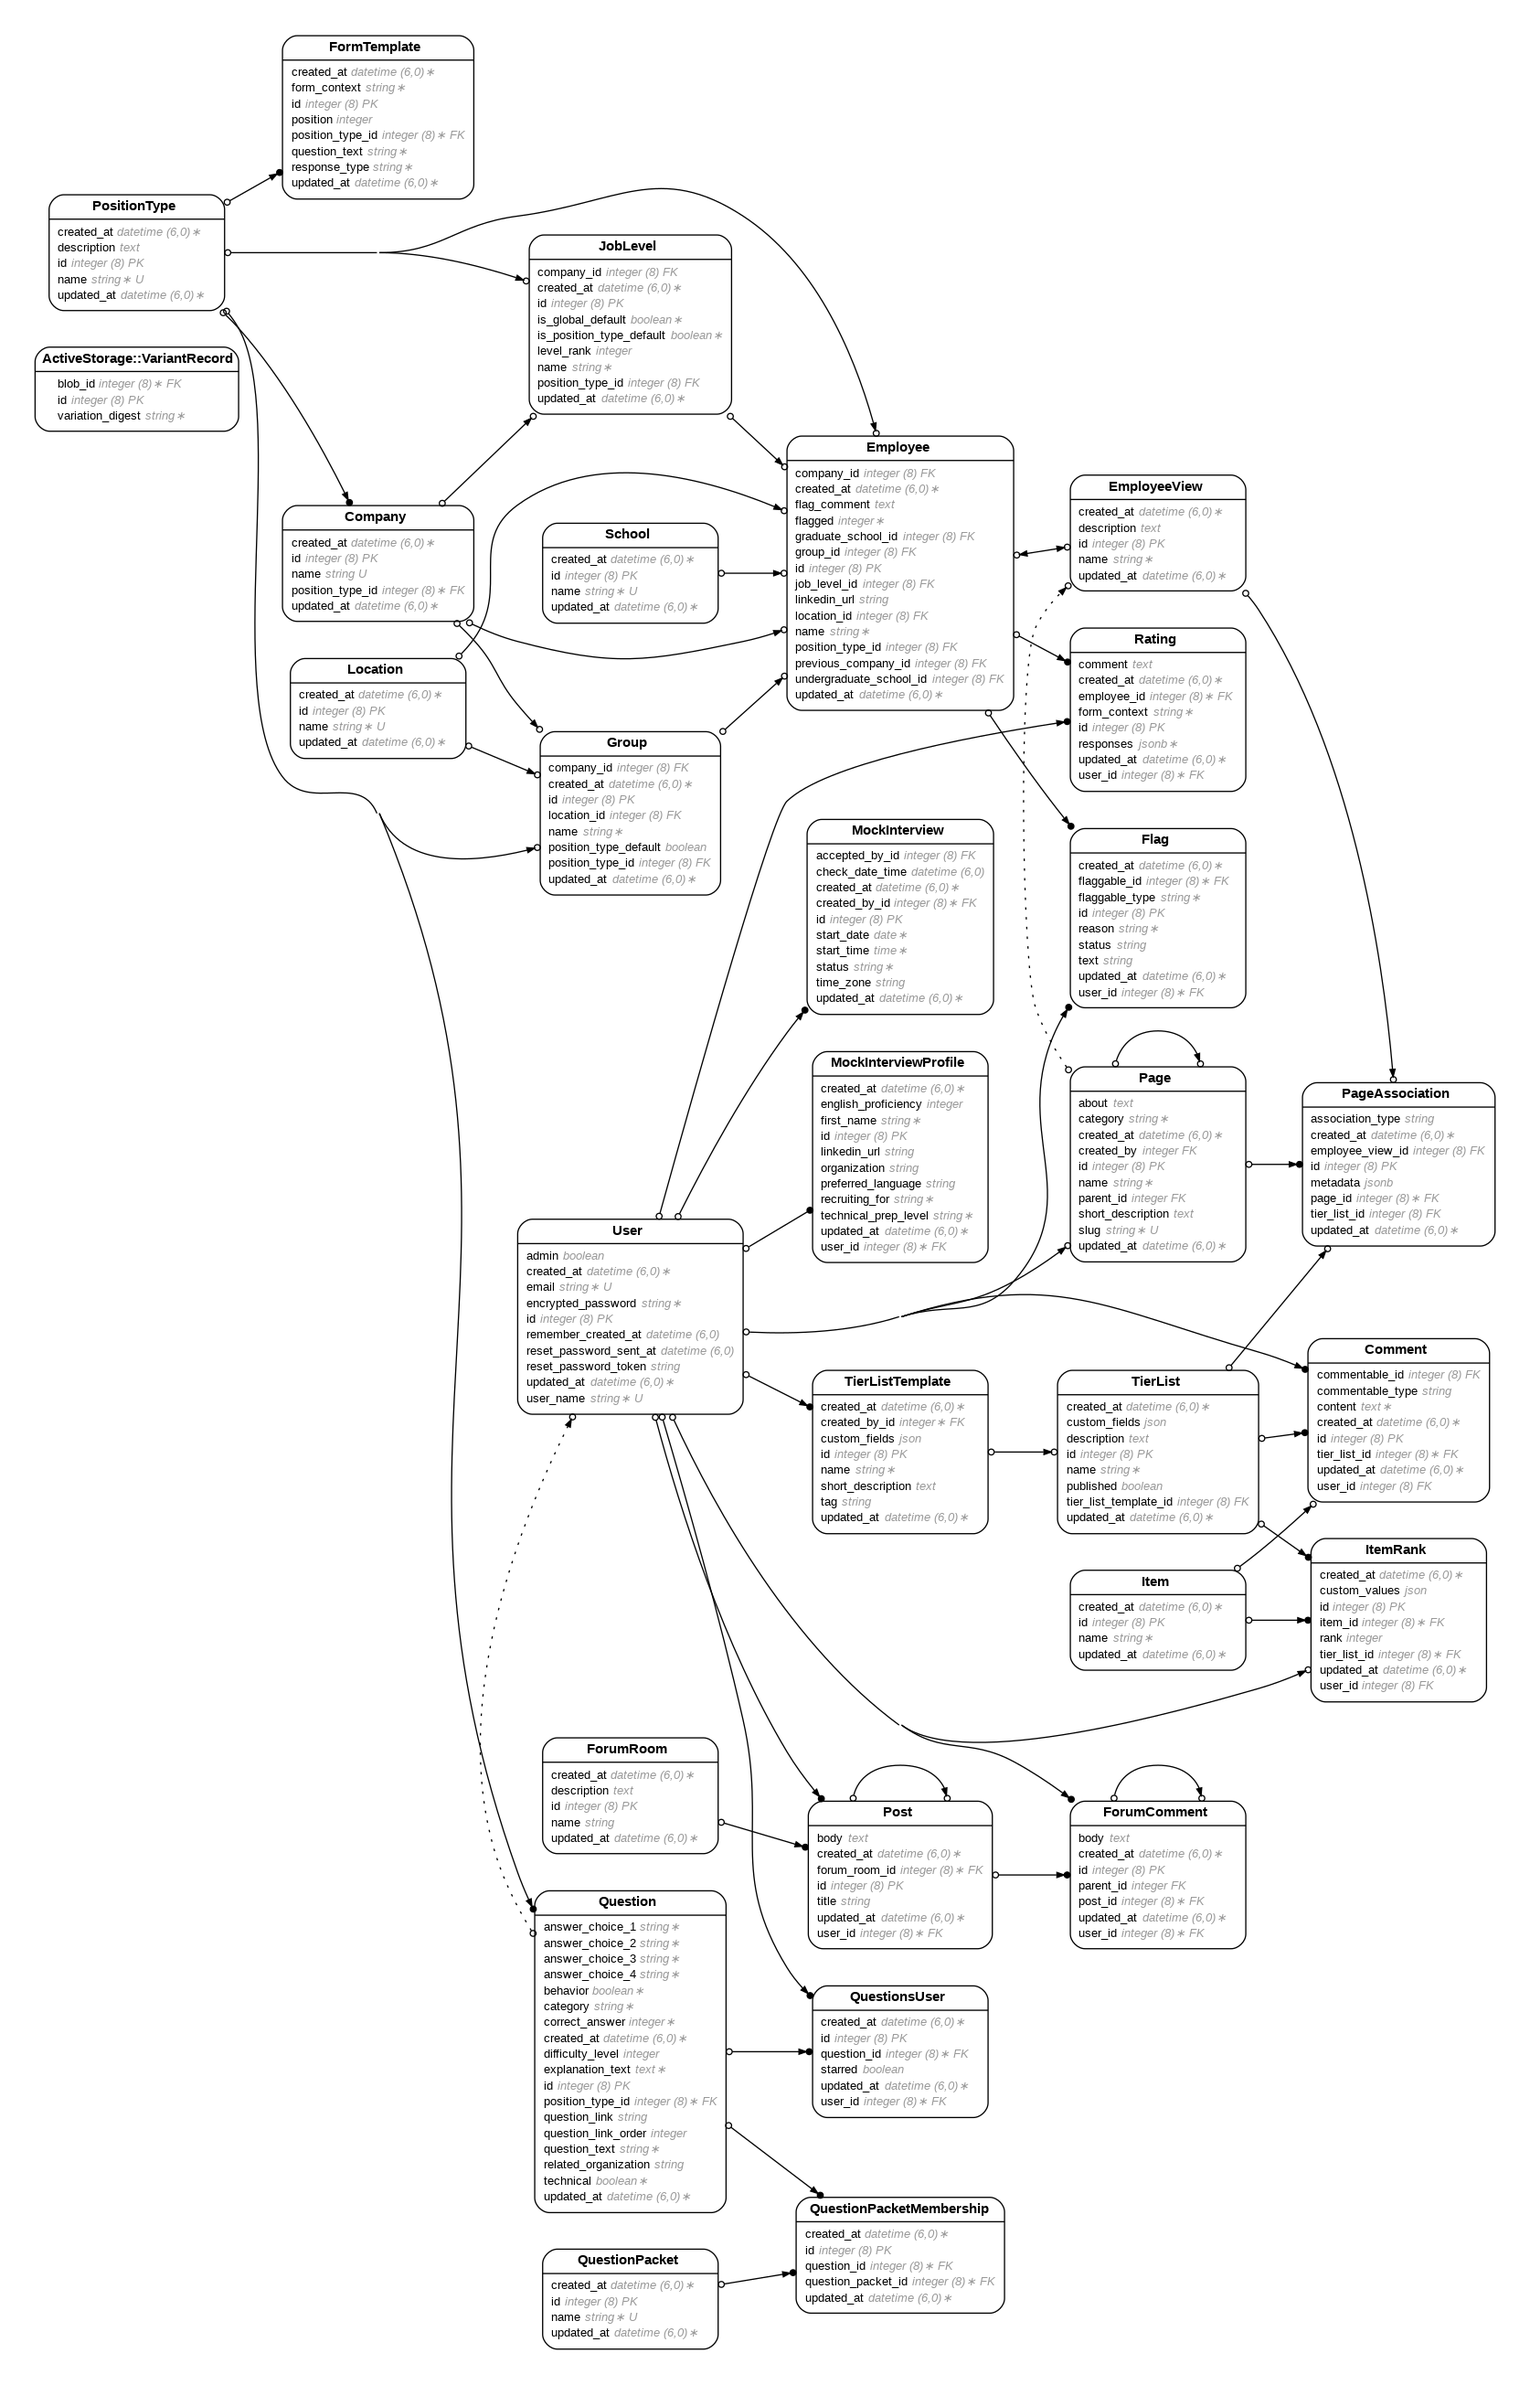
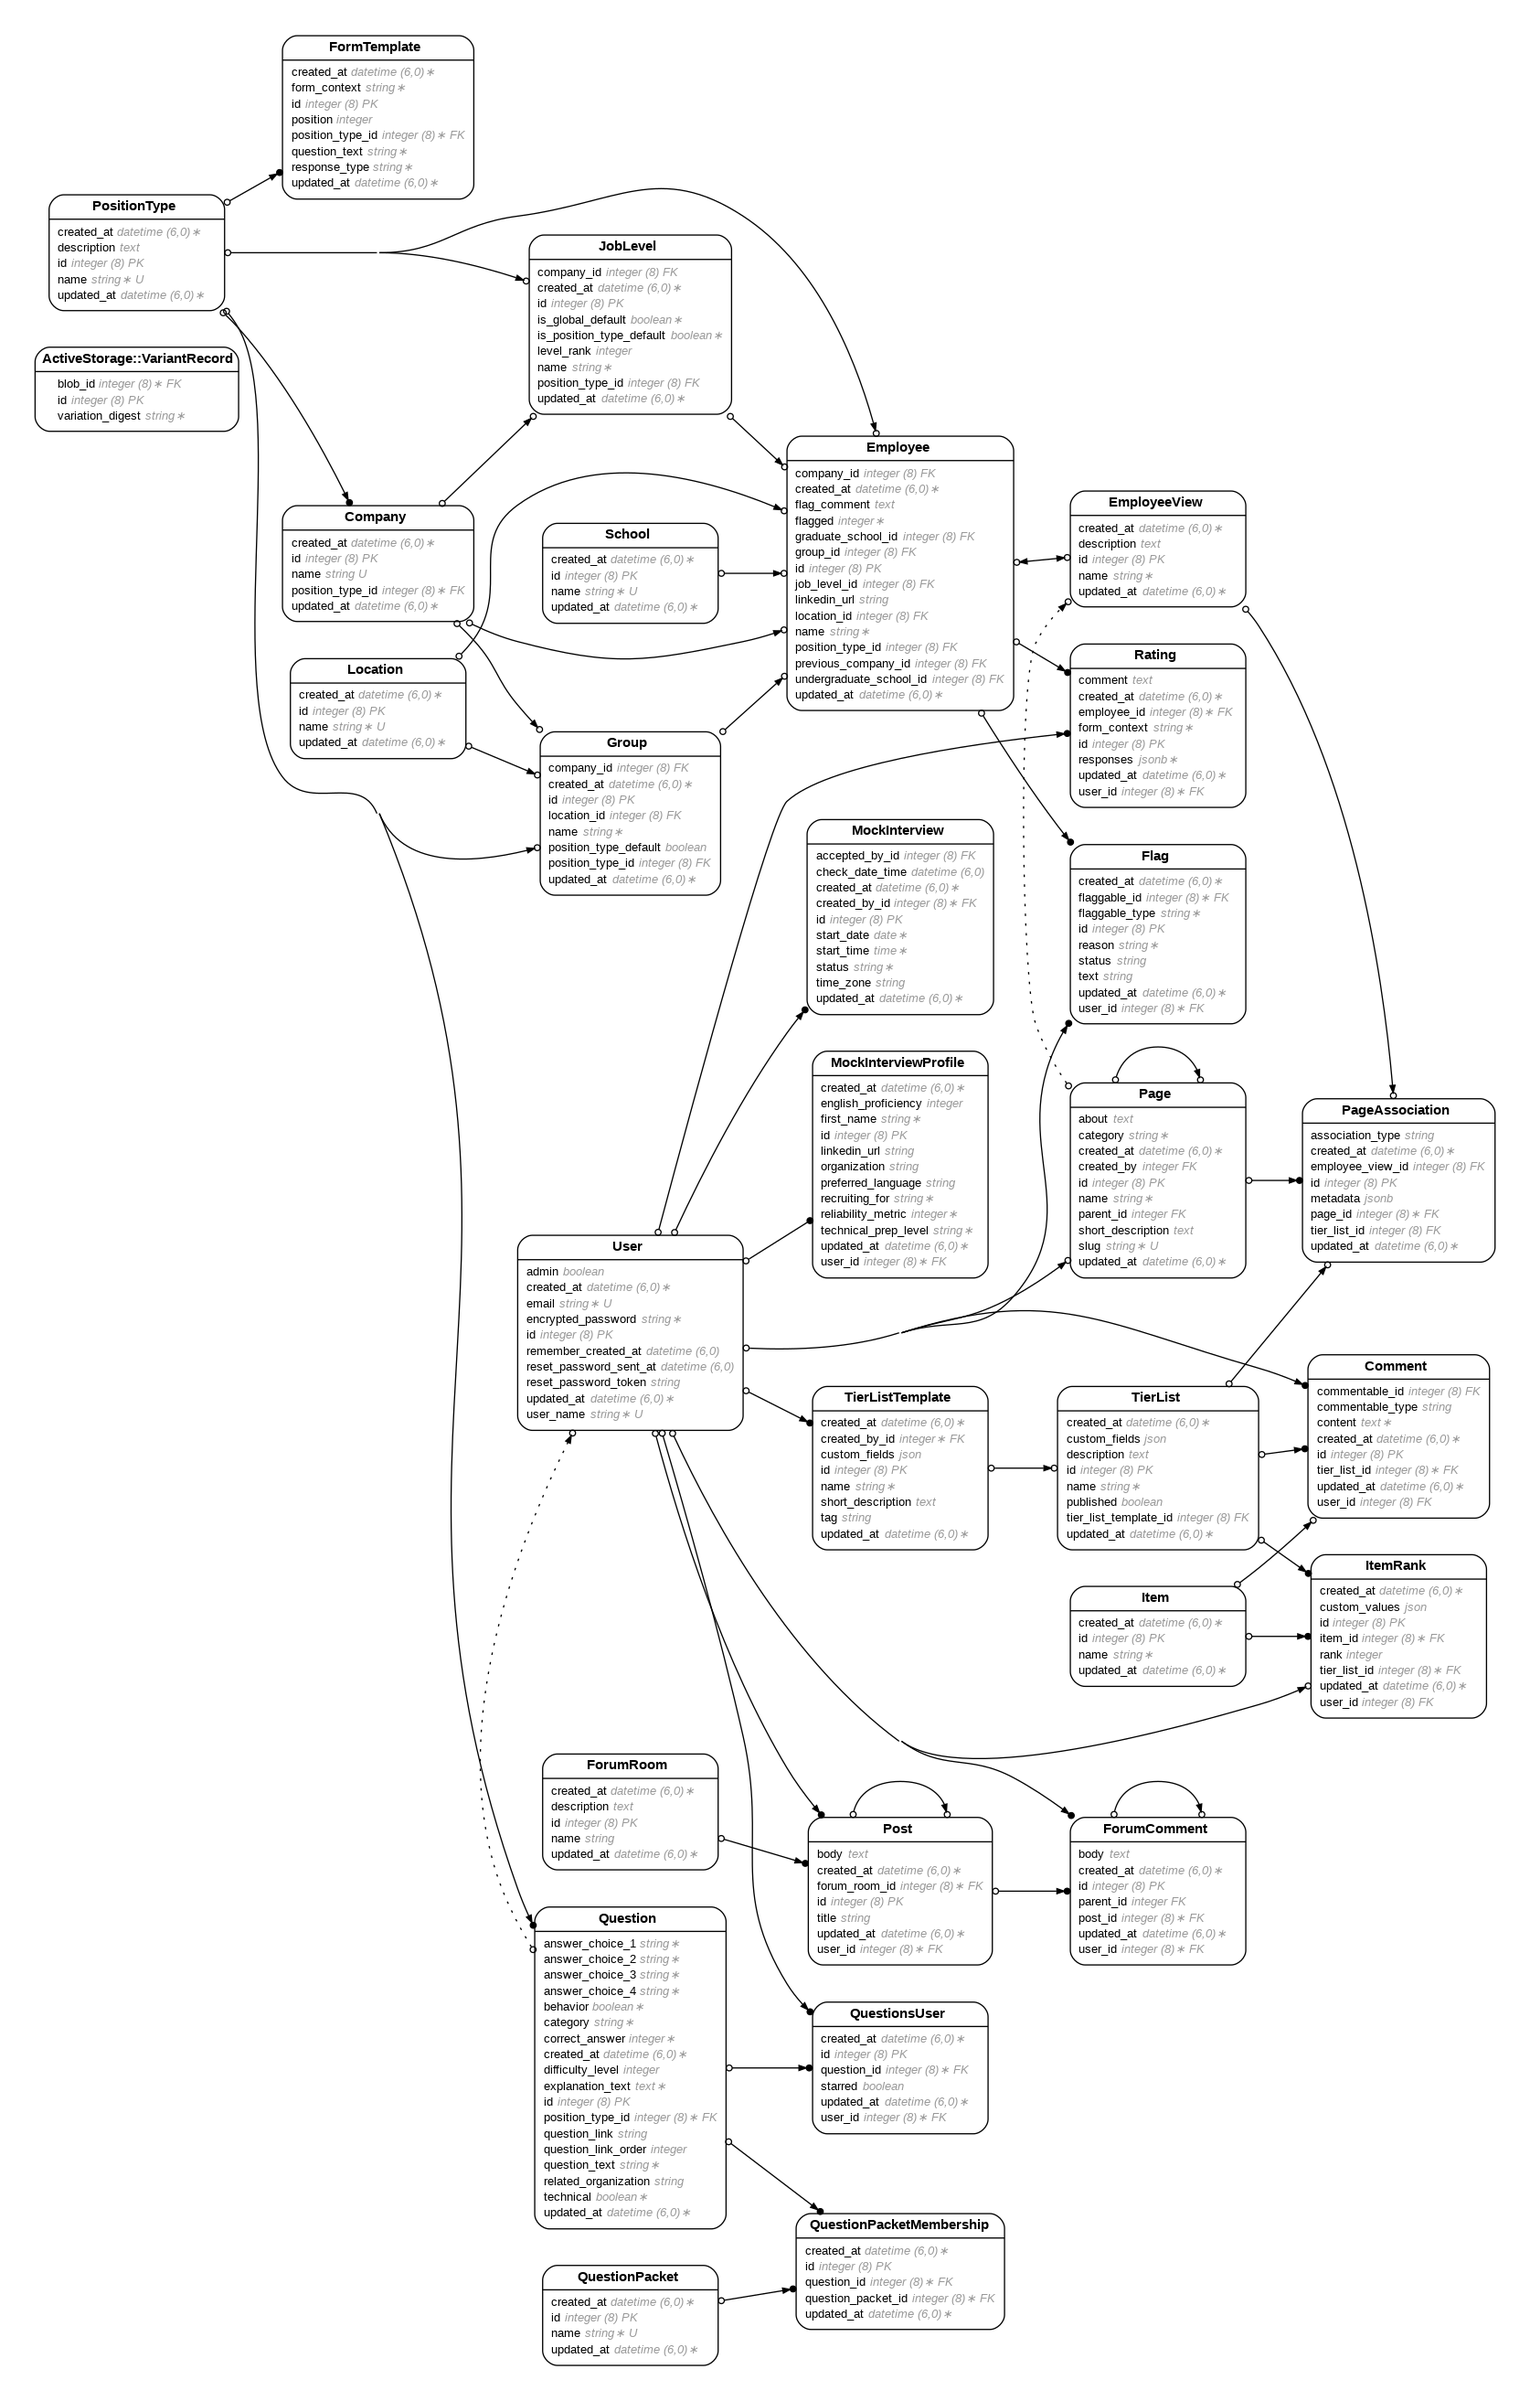
Added the reliability metric

diff --git a/app/models/mock_interview_profile.rb b/app/models/mock_interview_profile.rb
@@ -9,6 +9,7 @@
 #  organization         :string
 #  preferred_language   :string
 #  recruiting_for       :string
+#  reliability_metric   :integer          default(50), not null
 #  technical_prep_level :string
 #  created_at           :datetime         not null
 #  updated_at           :datetime         not null
@@ -29,8 +30,12 @@ class MockInterviewProfile < ApplicationRecord
   validates :first_name, :recruiting_for, :technical_prep_level, presence: true
   validates :linkedin_url, format: { with: URI::DEFAULT_PARSER.make_regexp(%w[http https]), message: "must be a valid URL" }, allow_blank: true
 
-  # enum technical_prep_level: { advanced: 0, intermediate: 1, beginner: 2 }
-  # enum english_proficiency: { conversational: 0, basic: 1, no_proficiency: 2 }
+  # Ensure reliability metric is always between 0 and 100
+  validates :reliability_metric, numericality: {
+    only_integer: true,
+    greater_than_or_equal_to: 0,
+    less_than_or_equal_to: 100
+  }
 
   # Add this method to explicitly allow attributes to be searchable
   def self.ransackable_attributes(auth_object = nil)

diff --git a/db/schema.rb b/db/schema.rb
@@ -10,7 +10,7 @@
 #
 # It's strongly recommended that you check this file into your version control system.
 
-ActiveRecord::Schema[7.1].define(version: 2025_01_18_050019) do
+ActiveRecord::Schema[7.1].define(version: 2025_01_19_230953) do
   # These are extensions that must be enabled in order to support this database
   enable_extension "plpgsql"
 
@@ -212,6 +212,7 @@ ActiveRecord::Schema[7.1].define(version: 2025_01_18_050019) do
     t.integer "english_proficiency"
     t.datetime "created_at", null: false
     t.datetime "updated_at", null: false
+    t.integer "reliability_metric", default: 50, null: false
     t.index ["user_id"], name: "index_mock_interview_profiles_on_user_id"
   end
 

diff --git a/db/migrate/20250119230953_add_reliability_metric_to_mock_interview_profiles.rb b/db/migrate/20250119230953_add_reliability_metric_to_mock_interview_profiles.rb
@@ -1,0 +1,5 @@
+class AddReliabilityMetricToMockInterviewProfiles < ActiveRecord::Migration[7.1]
+  def change
+    add_column :mock_interview_profiles, :reliability_metric, :integer, default: 50, null: false
+  end
+end
